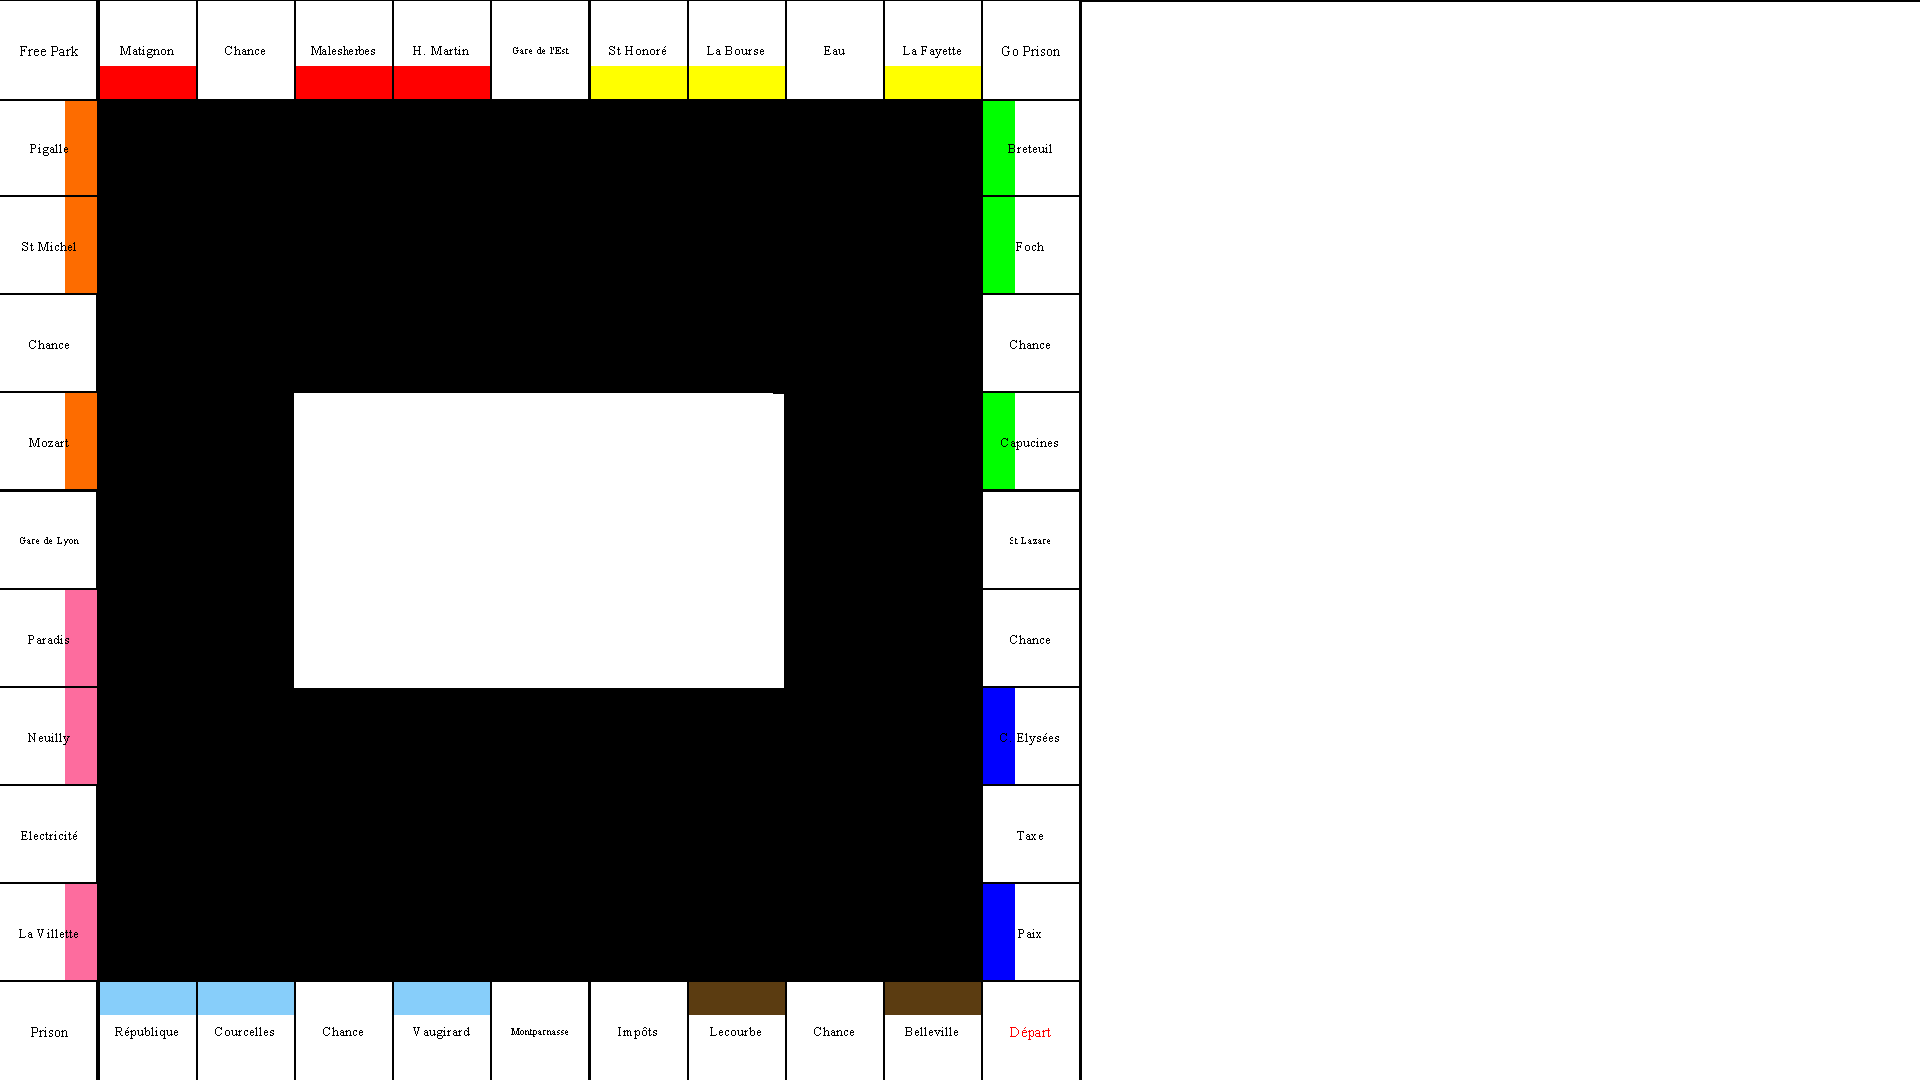
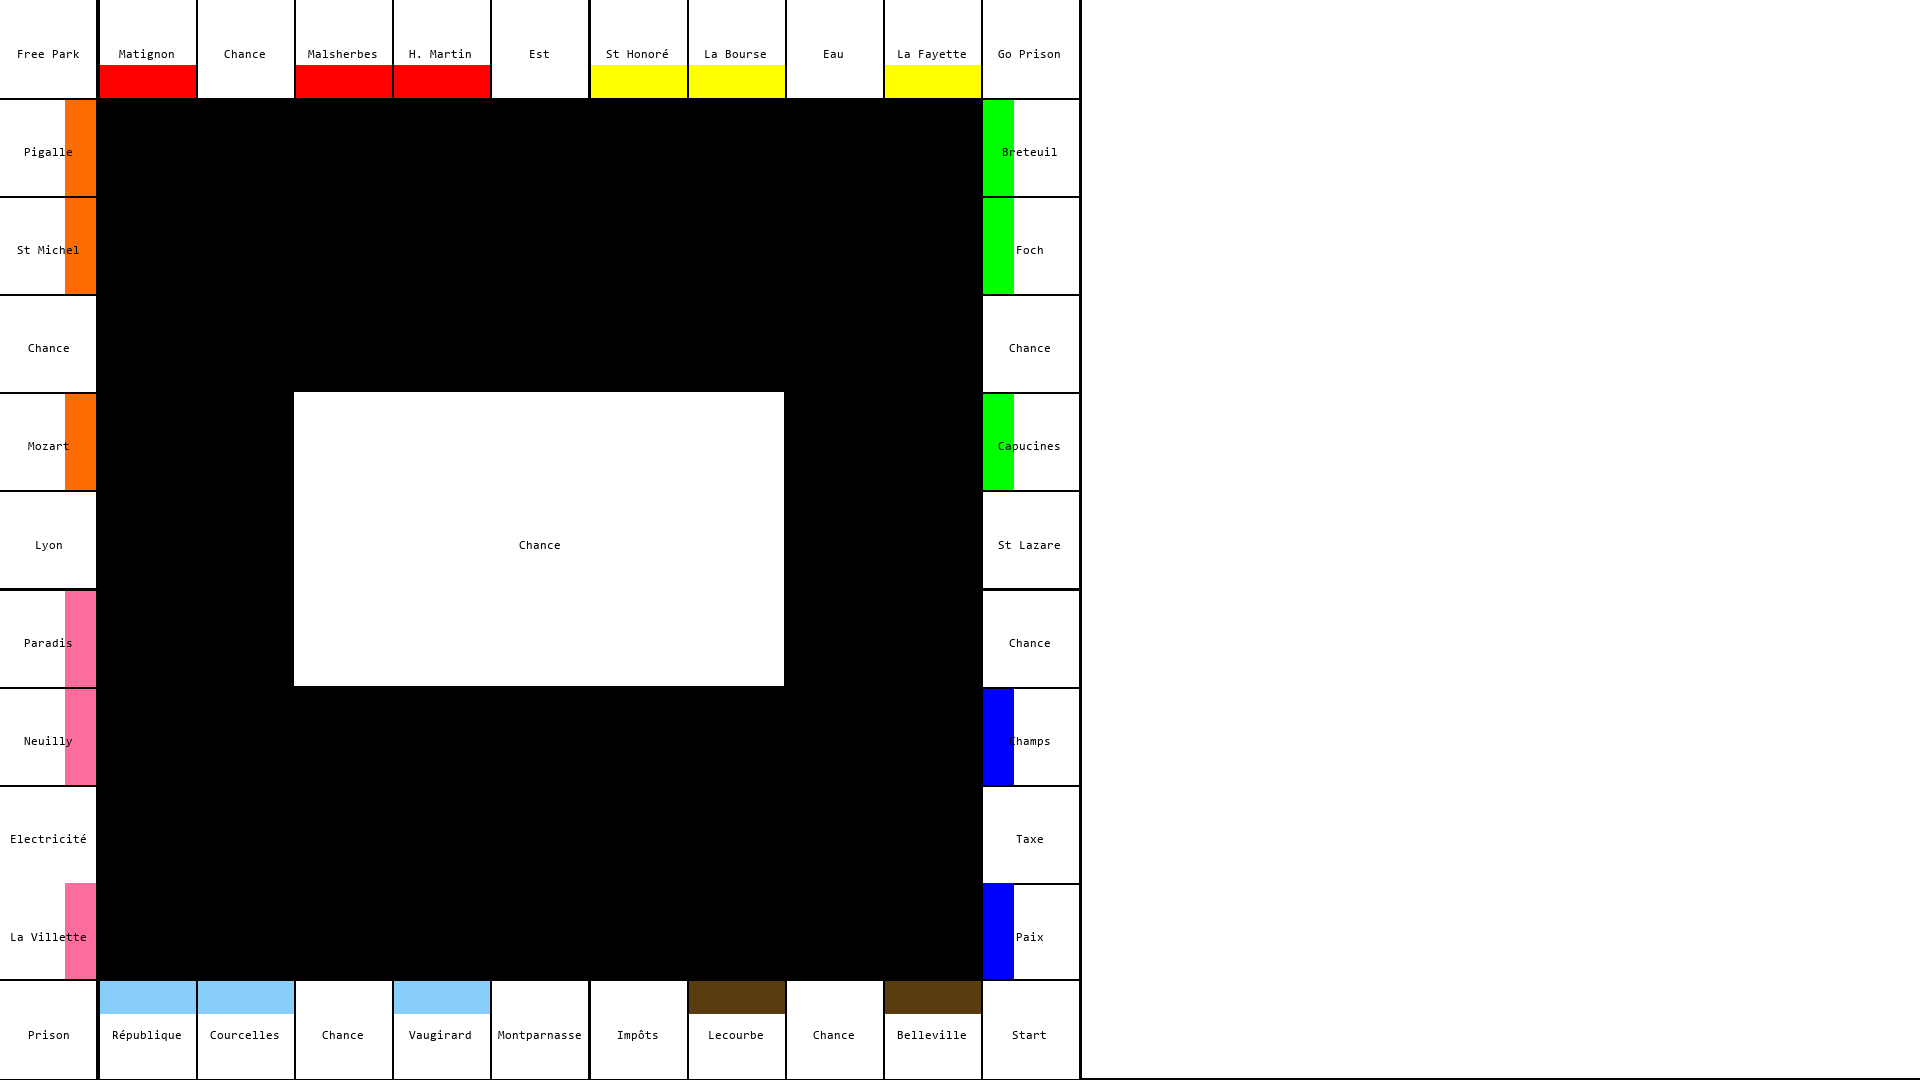
dessin du plateau à l'aide d'une image

diff --git a/board2.py b/board2.py
@@ -1,6 +1,7 @@
 import pygame
 import time
 import pyglet
+from PIL import Image
 
 pygame.init()
 
@@ -24,135 +25,10 @@ def text_format(message, textSize, textColor):
 
 def board(window_width= window.width, window_height = window.height):
     surface = pygame.display.set_mode((window_width,window_height))
-    pygame.draw.rect(surface, white, pygame.Rect(0, 0,window_height//11 - 2,window_height//11))
-    pygame.draw.rect(surface, white, pygame.Rect(window_height//11 +2, 0,window_height//11 - 2,window_height//11))
-    pygame.draw.rect(surface, white, pygame.Rect(2*window_height//11 +2, 0,window_height//11 - 2,window_height//11))
-    pygame.draw.rect(surface, white, pygame.Rect(3*window_height//11 +2, 0,window_height//11 - 2,window_height//11))
-    pygame.draw.rect(surface, white, pygame.Rect(4*window_height//11 +2, 0,window_height//11 - 2,window_height//11))
-    pygame.draw.rect(surface, white, pygame.Rect(5*window_height//11 +2, 0,window_height//11 - 2,window_height//11))
-    pygame.draw.rect(surface, white, pygame.Rect(6*window_height//11 +2, 0,window_height//11 - 2,window_height//11))
-    pygame.draw.rect(surface, white, pygame.Rect(7*window_height//11 +2, 0,window_height//11 - 2,window_height//11))
-    pygame.draw.rect(surface, white, pygame.Rect(8*window_height//11 +2, 0,window_height//11 - 2,window_height//11))
-    pygame.draw.rect(surface, white, pygame.Rect(9*window_height//11 +2, 0,window_height//11 - 2,window_height//11))
-    pygame.draw.rect(surface, white, pygame.Rect(10*window_height//11 +2, 0,window_height//11 - 2,window_height//11))
-
-    pygame.draw.rect(surface, white, pygame.Rect(0, 10 * window_height // 11, window_height // 11 - 2, window_height // 11))
-    pygame.draw.rect(surface, white, pygame.Rect(window_height//11 +2, 10*window_height//11,window_height//11 - 2,window_height//11))
-    pygame.draw.rect(surface, white, pygame.Rect(2*window_height//11 +2, 10*window_height//11,window_height//11 - 2,window_height//11))
-    pygame.draw.rect(surface, white, pygame.Rect(3*window_height//11 +2, 10*window_height//11,window_height//11 - 2,window_height//11))
-    pygame.draw.rect(surface, white, pygame.Rect(4*window_height//11 +2, 10*window_height//11,window_height//11 - 2,window_height//11))
-    pygame.draw.rect(surface, white, pygame.Rect(5*window_height//11 +2, 10*window_height//11,window_height//11 - 2,window_height//11))
-    pygame.draw.rect(surface, white, pygame.Rect(6*window_height//11 +2, 10*window_height//11,window_height//11 - 2,window_height//11))
-    pygame.draw.rect(surface, white, pygame.Rect(7*window_height//11 +2, 10*window_height//11,window_height//11 - 2,window_height//11))
-    pygame.draw.rect(surface, white, pygame.Rect(8*window_height//11 +2, 10*window_height//11,window_height//11 - 2,window_height//11))
-    pygame.draw.rect(surface, white, pygame.Rect(9*window_height//11 +2, 10*window_height//11,window_height//11 - 2,window_height//11))
-    pygame.draw.rect(surface, white, pygame.Rect(10*window_height//11 +2, 10*window_height//11,window_height//11 - 2,window_height//11))
-
-    pygame.draw.rect(surface, white, pygame.Rect(0, window_height//11 + 2,window_height//11 - 2,window_height//11 - 2))
-    pygame.draw.rect(surface, white, pygame.Rect(0, 2*window_height // 11 + 2, window_height // 11 - 2, window_height // 11 - 2))
-    pygame.draw.rect(surface, white, pygame.Rect(0, 3 * window_height // 11 + 2, window_height // 11 - 2, window_height // 11 - 2))
-    pygame.draw.rect(surface, white,pygame.Rect(0, 4 * window_height // 11 + 2, window_height // 11 - 2, window_height // 11 - 2))
-    pygame.draw.rect(surface, white,pygame.Rect(0, 5 * window_height // 11 + 2, window_height // 11 - 2, window_height // 11 - 2))
-    pygame.draw.rect(surface, white,pygame.Rect(0, 6 * window_height // 11 + 2, window_height // 11 - 2, window_height // 11 - 2))
-    pygame.draw.rect(surface, white,pygame.Rect(0, 7 * window_height // 11 + 2, window_height // 11 - 2, window_height // 11 - 2))
-    pygame.draw.rect(surface, white,pygame.Rect(0, 8 * window_height // 11 + 2, window_height // 11 - 2, window_height // 11 - 2))
-    pygame.draw.rect(surface, white,pygame.Rect(0, 9 * window_height // 11 , window_height // 11 - 2, window_height // 11 - 2))
-
-    pygame.draw.rect(surface, white,pygame.Rect(10*window_height//11 +2, window_height//11 + 2 ,window_height//11 - 2,window_height//11 - 2))
-    pygame.draw.rect(surface, white,pygame.Rect(10 * window_height // 11 + 2, 2*window_height // 11 + 2, window_height // 11 - 2,window_height // 11 - 2))
-    pygame.draw.rect(surface, white,pygame.Rect(10 * window_height // 11 + 2, 3*window_height // 11 + 2, window_height // 11 - 2,window_height // 11 - 2))
-    pygame.draw.rect(surface, white,pygame.Rect(10 * window_height // 11 + 2, 4*window_height // 11 + 2, window_height // 11 - 2,window_height // 11 - 2))
-    pygame.draw.rect(surface, white,pygame.Rect(10 * window_height // 11 + 2, 5*window_height // 11 + 2, window_height // 11 - 2,window_height // 11 - 2))
-    pygame.draw.rect(surface, white,pygame.Rect(10 * window_height // 11 + 2, 6*window_height // 11 + 2, window_height // 11 - 2,window_height // 11 - 2))
-    pygame.draw.rect(surface, white,pygame.Rect(10 * window_height // 11 + 2, 7*window_height // 11 + 2, window_height // 11 - 2,window_height // 11 - 2))
-    pygame.draw.rect(surface, white,pygame.Rect(10 * window_height // 11 + 2, 8*window_height // 11 + 2, window_height // 11 - 2,window_height // 11 - 2))
-    pygame.draw.rect(surface, white,pygame.Rect(10 * window_height // 11 + 2, 9*window_height // 11 + 2, window_height // 11 - 2,window_height // 11 - 4))
-
-    pygame.draw.rect(surface, white, pygame.Rect(window_height + 2 , 0, window_width - window_height - 2,window_height - 2))
-    pygame.draw.rect(surface, white, pygame.Rect(3*window_height//11, 4*window_height//11, 5*window_height//11, 3*window_height//11))
-
-    pygame.draw.rect(surface, blue2,pygame.Rect(window.height // 11 + 2, 10 * window.height // 11, window.height // 11 - 2,window.height // 33 + 1))
-    pygame.draw.rect(surface, blue2,pygame.Rect(2*window.height // 11 + 2, 10 * window.height // 11, window.height // 11 - 2,window.height // 33 + 1))
-    pygame.draw.rect(surface, blue2,pygame.Rect(4*window.height // 11 + 2, 10 * window.height // 11, window.height // 11 - 2,window.height // 33 + 1))
-
-    pygame.draw.rect(surface, brown,pygame.Rect(7 * window.height // 11 + 2, 10 * window.height // 11, window.height // 11 - 2,window.height // 33 + 1))
-    pygame.draw.rect(surface, brown,pygame.Rect(9 * window.height // 11 + 2, 10 * window.height // 11, window.height // 11 - 2,window.height // 33 + 1))
-
-    pygame.draw.rect(surface, red,pygame.Rect(window.height // 11 + 2, 2 * window.height // 33, window.height // 11 - 2,window.height // 33 + 1))
-    pygame.draw.rect(surface, red,pygame.Rect(3*window.height // 11 + 2, 2 * window.height // 33, window.height // 11 - 2,window.height // 33 + 1))
-    pygame.draw.rect(surface, red,pygame.Rect(4*window.height // 11 + 2, 2 * window.height // 33, window.height // 11 - 2,window.height // 33 + 1))
-    pygame.draw.rect(surface, yellow,pygame.Rect(6*window.height // 11 + 2, 2 * window.height // 33, window.height // 11 - 2,window.height // 33 + 1))
-    pygame.draw.rect(surface, yellow,pygame.Rect(7 * window.height // 11 + 2, 2 * window.height // 33, window.height // 11 - 2,window.height // 33 + 1))
-    pygame.draw.rect(surface, yellow,pygame.Rect(9 * window.height // 11 + 2, 2 * window.height // 33, window.height // 11 - 2,window.height // 33 + 1))
-
-    pygame.draw.rect(surface, rose, pygame.Rect(2 * window.height // 33, 9 * window.height // 11 , window.height // 33-1,window.height // 11-2))
-    pygame.draw.rect(surface, rose, pygame.Rect(2 * window.height // 33, 7 * window.height // 11 +2, window.height // 33-1,window.height // 11-2))
-    pygame.draw.rect(surface, rose, pygame.Rect(2 * window.height // 33, 6 * window.height // 11 +2, window.height // 33-1,window.height // 11-2))
-
-    pygame.draw.rect(surface, orange, pygame.Rect(2 * window.height // 33, 4 * window.height // 11 +2, window.height // 33-1,window.height // 11-2))
-    pygame.draw.rect(surface, orange, pygame.Rect(2 * window.height // 33, 2 * window.height // 11 +2, window.height // 33-1,window.height // 11-2))
-    pygame.draw.rect(surface, orange, pygame.Rect(2 * window.height // 33, 1 * window.height // 11 +2, window.height // 33-1,window.height // 11-2))
-
-    pygame.draw.rect(surface, blue, pygame.Rect(30 * window.height // 33+2, 9 * window.height // 11 , window.height // 33-1,window.height // 11-2))
-    pygame.draw.rect(surface, blue, pygame.Rect(30 * window.height // 33+2, 7 * window.height // 11 +2, window.height // 33-1,window.height // 11-2))
-
-    pygame.draw.rect(surface, green, pygame.Rect(30 * window.height // 33+2, 4 * window.height // 11 +2, window.height // 33-1,window.height // 11-2))
-    pygame.draw.rect(surface, green, pygame.Rect(30 * window.height // 33+2, 2 * window.height // 11 +2, window.height // 33-1,window.height // 11-2))
-    pygame.draw.rect(surface, green, pygame.Rect(30 * window.height // 33+2, 1 * window.height // 11 +2, window.height // 33-1,window.height // 11-2))
-
-    def label(surface, name, x_init, y_init):
-        name_prop = text_format(name, 12, black)
-        rec_prop = name_prop.get_rect()
-        surface.blit(name_prop, (x_init - (rec_prop[2] / 2), y_init ))
-
-    label(surface,'Prison', window.height // 22, 21*window.height // 22)
-    label(surface,'Start',21 * window.height // 22, 21*window.height // 22)
-    label(surface,'Free Park',window.height // 22, window.height // 22)
-    label(surface,'Go Prison', 21 * window.height // 22,  window.height // 22)
-    label(surface,'Montparnasse', 11 * window.height // 22, 21*window.height /22)
-    label(surface,'St Lazare', 21 * window.height // 22, 11 * window.height // 22)
-    label(surface,'Lyon',window.height // 22, 11 * window.height // 22)
-    label(surface,'Est', 11*window.height//22, window.height//22)
-
-    label(surface,'Chance',7 * window.height // 22, 21*window.height // 22)
-    label(surface,'Chance', 21 * window.height // 22, 13*window.height // 22)
-    label(surface,'Chance', 5 * window.height // 22, window.height // 22)
-    label(surface,'Chance', 17 * window.height // 22, 21*window.height // 22)
-    label(surface,'Chance', 21 * window.height // 22, 7*window.height // 22)
-    label(surface,'Chance', window.height // 22, 7*window.height // 22)
-    label(surface,'Chance', 11 * window.height // 22, 11*window.height // 22)
-
-    label(surface,'Belleville', 19* window.height // 22, 21*window.height // 22)
-    label(surface,'Lecourbe', 15 * window.height // 22, 21*window.height // 22)
-    label(surface,'Vaugirard', 9 * window.height // 22, 21*window.height // 22)
-    label(surface,'Courcelles', 5 * window.height // 22, 21*window.height // 22)
-    label(surface,'République', 3 * window.height // 22, 21*window.height // 22)
-
-    label(surface,'La Villette', window.height // 22, 19*window.height // 22)
-    label(surface,'Neuilly', window.height // 22, 15 * window.height // 22)
-    label(surface,'Paradis', window.height // 22, 13 * window.height // 22)
-    label(surface,'Mozart', window.height // 22, 9 * window.height // 22)
-    label(surface,'St Michel', window.height // 22, 5 * window.height // 22)
-    label(surface,'Pigalle', window.height // 22, 3 * window.height // 22)
-
-    label(surface,'Matignon', 3*window.height // 22,  window.height // 22)
-    label(surface,'Malsherbes', 7 * window.height // 22, window.height // 22)
-    label(surface,'H. Martin', 9 * window.height // 22, window.height // 22)
-    label(surface,'St Honoré', 13 * window.height // 22, window.height // 22)
-    label(surface,'La Bourse', 15 * window.height // 22, window.height // 22)
-    label(surface,'La Fayette', 19 * window.height // 22, window.height // 22)
-
-    label(surface,'Paix', 21 * window.height // 22, 19 * window.height // 22)
-    label(surface,'Champs', 21 * window.height // 22, 15 * window.height // 22)
-    label(surface,'Capucines', 21 * window.height // 22, 9 * window.height // 22)
-    label(surface,'Foch', 21 * window.height // 22, 5 * window.height // 22)
-    label(surface,'Breteuil', 21 * window.height // 22, 3 * window.height // 22)
-
-    label(surface, 'Impôts', 13 * window.height // 22, 21 * window.height // 22)
-    label(surface, 'Electricité', window.height // 22, 17 * window.height // 22)
-    label(surface, 'Eau', 17*window.height // 22,  window.height // 22)
-    label(surface, 'Taxe', 21 * window.height // 22, 17 * window.height // 22)
-
+    board_background_image = Image.open('./pictures/board.png').resize((window_width, window_height))
+    board_background_image.save('./pictures/board_resized.png')
+    board_background = pygame.image.load('./pictures/board_resized.png')
+    surface.blit(board_background, (0,0))
 
     pygame.display.flip()
 
@@ -166,4 +42,5 @@ if __name__ == "__main__":
             if event.type == pygame.QUIT:
                 Go = False
         board()
+    pygame.display.quit()
     pygame.quit()
